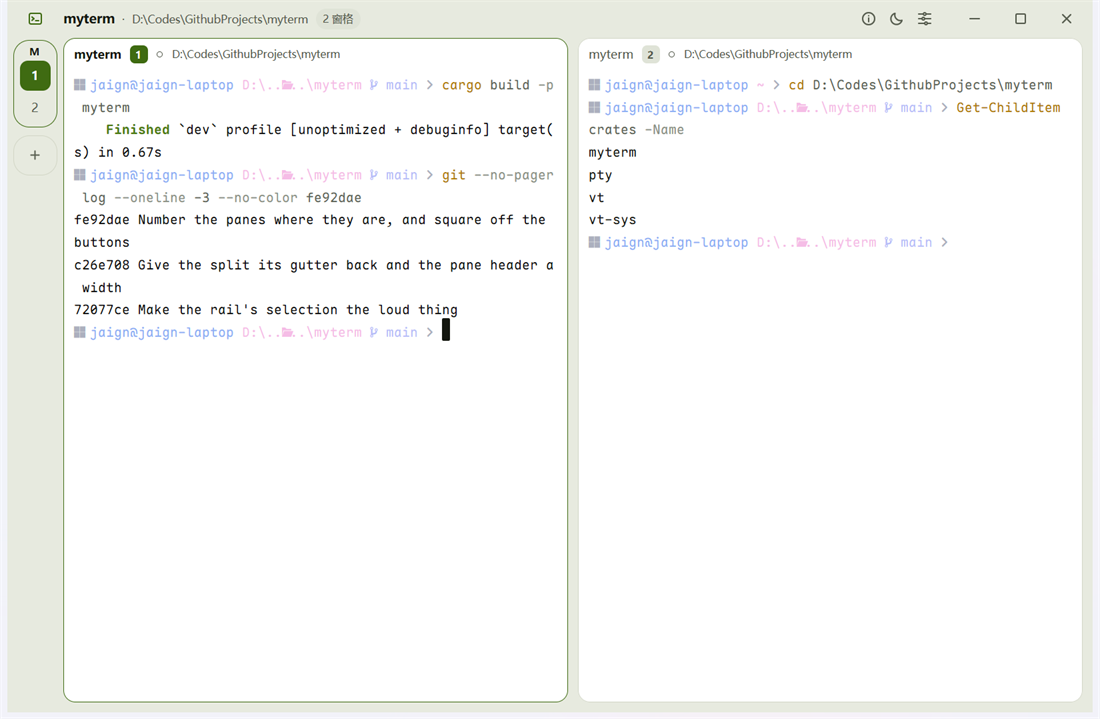
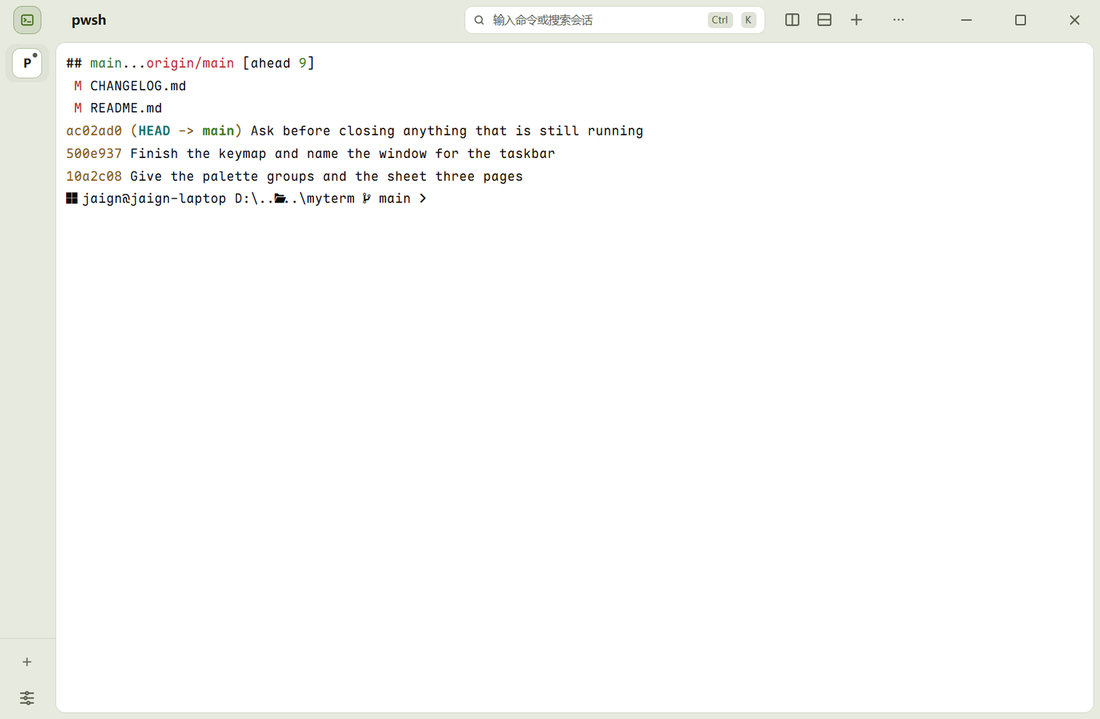
Write the new interface back into the docs
design.md described a window that no longer exists: capsules in the rail, a
focus veil, ten pixels of gutter on four sides. The sections on the workspace
column, focus, layout and colour now describe what the code does, including the
contrast numbers and the accent budget of four.

The proposal in ui-redesign.md is marked implemented, with the outstanding rows
of its own table updated rather than left to claim otherwise, and the readme
carries the new keys, the settings pages and fresh screenshots at the same
1100×719 the old ones used.

Changed region(s): [[0.0, 0.0, 1.0, 1.0]]

diff --git a/README.md b/README.md
@@ -9,18 +9,18 @@
 
 <picture>
   <source media="(prefers-color-scheme: dark)" srcset="docs/screenshot-dark.png">
-  <img src="docs/screenshot.png" alt="myterm 的窗口：左侧窄条是标签与窗格序号，右侧两张终端卡片各带窗格头" width="880">
+  <img src="docs/screenshot.png" alt="myterm 的窗口：左侧窄条是工作区与它的窗格，右侧终端卡片上方是 44px 顶栏" width="880">
 </picture>
 
-终端渲染、键盘与中文输入、多标签、分屏与拖动比例、选区与复制、滚轮回滚、Kitty 图形协议、深浅主题、自动更新与安装都已人工验证。设计取舍写在 [docs/design.md](docs/design.md)。
+终端渲染、键盘与中文输入、多工作区、分屏与拖动比例、选区与复制、滚轮回滚、Kitty 图形协议、深浅主题、自动更新与安装都已人工验证。设计取舍写在 [docs/design.md](docs/design.md)。
 
 ## 三个决定
 
-**标签在侧边，不在顶部。** 顶部那一行留给窗口本身。左侧一栏就是标签栏：默认是最窄的窄条，一个标签一个胶囊，当前标签用强调色描边；展开后变成一行一个标签、多窗格的标签带缩进的窗格行。宽度只由你决定，分屏不会把它撑开。
+**工作区在侧边，不在顶部。** 顶部那一行留给窗口本身：工作区的名字、它所在的目录、一条通往全部功能的命令入口，然后是分屏与窗口按钮。左侧一栏是工作区栏，默认是最窄的窄条——一个工作区一个方块，当前的那个整块带底色；展开后一行一个工作区，名字下面是 shell 报上来的目录。宽度只由你决定，分屏不会把它撑开。
 
-**窗格是卡片，外壳是底。** 卡片之间留 10px 的外壳色，那 10px 就是分隔线本身——不额外画线。指针停在间隙上会浮出一小段强调色手柄，说明这里能拖。
+**窗格是卡片，外壳是底。** 卡片之间留 8px 的外壳色，那 8px 就是分隔线本身——不额外画线。指针停在间隙上会浮出一小段强调色手柄，说明这里能拖。
 
-**强调色只说明一件事：这里是当前。** 青柠色用在应用标记、当前标签的描边、键盘所在的窗格、可拖动的间隙，以及有输出或待更新的状态上。它不拿来装饰——所以看到它，它总在回答「现在在哪」或「有东西在动」。
+**强调色只说明一件事：这里是当前。** 它用在应用标记、当前工作区的方块、键盘所在的窗格描边、可拖动的间隙，以及有输出的状态上；设置里可以从青柠换到琥珀、天蓝或紫。它不拿来装饰——所以看到它，它总在回答「现在在哪」或者「有东西在动」。
 
 ## 安装
 
@@ -36,18 +36,24 @@
 
 | 按键 | 作用 |
 | --- | --- |
-| `Ctrl+Shift+T` | 新建标签 |
-| `Ctrl+Shift+Q` | 关闭标签 |
+| `Ctrl+K` | 命令面板（命令、工作区、主题） |
+| `Ctrl+Shift+T` | 新建工作区 |
+| `Ctrl+Shift+Q` | 关闭工作区 |
+| `Ctrl+Shift+R` | 恢复刚关掉的工作区（6 秒内） |
 | `Ctrl+Shift+W` | 关闭窗格 |
-| `Ctrl+Shift+D` | 左右分屏 |
-| `Ctrl+Shift+E` | 上下分屏 |
-| `Ctrl+Shift+Z` | 缩放当前窗格 |
+| `Ctrl+Shift+D` | 向右分屏 |
+| `Ctrl+Shift+E` | 向下分屏 |
+| `Ctrl+Shift+Z` | 缩放当前窗格（`Esc` 退出） |
 | `Ctrl+Shift+B` | 收起 / 展开侧栏 |
+| `Ctrl+Shift+F` | 查找（`F3` / `Shift+F3` 上下条） |
 | `Ctrl+Shift+C` / `Ctrl+Shift+V` | 复制选区 / 粘贴 |
 | `Ctrl+Shift+L` | 切换深浅主题 |
+| `Ctrl+,` | 设置 |
+| `Ctrl+Tab` / `Ctrl+1..9` | 切换 / 直达工作区 |
 | `Alt+方向键` | 切换窗格 |
 
 复制粘贴用带 `Shift` 的组合，因为终端必须把 `Ctrl+C`（中断前台程序）和 `Ctrl+V`（readline 的引号插入）原样交给 shell。
+`Ctrl+F` 同理留给 shell 的前移一个字符，查找因此也是 `Ctrl+Shift+F`。退出是 `Alt+F4` 或应用菜单里的「退出」。
 
 ## 功能
 
@@ -64,16 +70,30 @@
 
 ### 窗口与侧栏
 
-- **标题栏**：自绘。左边是应用标记（点一下收起 / 展开侧栏），中间空白处拖动窗口，右侧是分屏按钮、信息、主题、更新徽章和窗口按钮。
-- **侧栏**：窗口里唯一的标签入口。窄条里一个标签是一个胶囊——未激活的是普通描边加淡底，当前标签换成强调色描边；多窗格的标签上方是小标签字、下方是窗格块，块里放名字首字（重名时用序号），状态不画点而用块底色表示（输出中 / 已退出），选中是白底。展开后一行一个标签，多窗格成组，每行带状态点、名字和状态。
-- **标签操作**：栏头的加号新建，当前标签行上的叉关闭；标签全关掉时，列表里有一行「新建终端」。
+- **布局**：两列。左侧工作区栏贯穿整个高度，应用标记就在它要打开的角落里；右侧是 44px 顶栏
+  （工作区名 · 目录 · 命令入口 · 分屏与新建 · 应用菜单 · 窗口按钮）加上面的工作区。
+- **命令入口**：顶栏中间那条 `Ctrl+K` 的输入框是鼠标用户的入口——命令、工作区、主题都在里面，
+  每行印着自己的键位。
+- **工作区栏**：窗口里唯一的工作区入口。展开时一行一个工作区，组头带字形、名字、窗格数与关闭叉；
+  单个窗格的工作区就是那一行，名字下面是 shell 报上来的目录。窄条时一个工作区一个方块，当前
+  工作区整块带底色，每个窗格一枚块，右上角是状态点。
+- **关闭**：窗格、工作区、窗口三种粒度走同一个确认卡，写明会结束几个终端；关掉的工作区在 6 秒内
+  可以撤销，撤销窗口过期当它一起结束。
 - **主题**：跟随系统深浅色启动，`Ctrl+Shift+L` 或标题栏按钮切换。终端前景、背景、光标与 ANSI 16 色一起换，不只是外壳——这些值也注入解析器，所以查询颜色的程序得到和屏幕一致的结果。
+
+### 设置
+
+- **三页**：外观（主题、密度、强调色）、终端（默认 shell、字号）、快捷键。
+- **立即生效**：每一项改完当场生效并写盘，遮罩只有 12%，改字号时终端就在旁边跟着变。
+- **配置文件**：`%LOCALAPPDATA%\myterm\config.txt`，平铺的 `key = value`；坏行、未知键、越界值
+  都会被忽略，文件损坏只会退回默认值而不会让程序打不开。
 
 ### 分屏
 
 - 左右 `Ctrl+Shift+D`、上下 `Ctrl+Shift+E`、关闭 `Ctrl+Shift+W`，`Alt+方向键` 按几何位置切换。
 - 分成多个窗格后，每张卡片顶部多一行窗格头（状态点、名字，悬停时出现分屏 / 缩放 / 关闭）。单窗格时不显示——侧栏已经说了它是谁。
-- **焦点不画边框**：没有键盘的窗格整体变淡。切换焦点时没有任何像素位移。
+- **焦点是描边**：拿到键盘的卡片把那条细线换成强调色，未聚焦的卡片保持中性——输出本身不蒙雾，
+  切换焦点也不移动任何一个像素。
 - 缩放是临时的：`zoomed` 只影响渲染，布局树不动，放开时每个窗格回到原处。
 
 ## 构建
@@ -111,6 +131,7 @@ crates/
 
 - **系统磨砂材质透不出来**：Windows 后端通过 DirectComposition 呈现不透明表面，DWM 的 Mica / Acrylic 被它盖住。标题栏改用比网格更浅的外壳色来分层。
 - **只有 Windows。**
-- **查找未接入**：`vt` 层已提供搜索接口，界面还没做。
+- **查找只覆盖当前屏幕**：终端库只把视口内的行交给渲染层，没有可遍历的回滚缓冲。
+- **侧栏的目录来自 shell 的 OSC 标题**：shell 不报路径时那一行留空，没有进程目录查询。
 - **自动更新只替换可执行文件**，不处理同目录的其他文件；目前也只有这一个文件。
 - **字体依赖本机**安装 Maple Mono NF CN。

diff --git a/CHANGELOG.md b/CHANGELOG.md
@@ -5,6 +5,60 @@
 格式参照 [Keep a Changelog](https://keepachangelog.com/zh-CN/1.1.0/)，
 版本号遵循 [语义化版本](https://semver.org/lang/zh-CN/)。
 
+## [0.5.0] - 2026-11-16
+
+这一版把界面按 `docs/ui-prototype.html` 重画了一遍：窗口是两列而不是两行，侧栏是唯一的工作区入口，
+设置、关于、命令面板按原型的形状重做。行为上的变化集中在键位和关闭语义。
+
+### 界面
+
+- 窗口拆成两列：左侧的工作区栏贯穿整个高度，应用标记落在它要打开的角落；右侧是 44px 顶栏
+  （工作区名 · 目录 · 命令入口 · 分屏与新建 · 应用菜单 · 窗口按钮）加工作区。
+- 顶栏中间是一条命令入口（`Ctrl+K`）：这是鼠标用户唯一找得到的「全部功能」，不再需要背键位。
+- 设置、关于、检查更新、主题从顶栏图标搬进 `⋯` 菜单。这三项都不是高频动作，而它们占的是顶栏里
+  最贵的位置。
+- 状态条改成条件出现：只在缩放时（`已缩放 · Esc 退出`）出现，静止时是 0 像素。
+- 侧栏行高 42：上面是名字，下面是 shell 报上来的目录。工作区组头带布局字形、名字、窗格数与关闭叉。
+- 窄条重做：一个工作区一个方块，当前工作区整块带底色；多于一个窗格时才有组头；每个块右上角一枚
+  状态点，字色同时按状态取色。
+- 窗格头：状态在最前（实心=输出中、空心=空闲、方块=已退出），名字后跟序号与目录；动作在持有键盘
+  的窗格上常显，其余窗格悬停出现。
+- 查找条搬进窗格内部，占自己的一行，不再浮在整列之上；`1/5` 计数，`↑ ↓` 与 `F3 / Shift+F3` 都走。
+- 命令面板重做：580px、分组（命令 / 工作区 / 外观）、每行一个字形与键位；工作区名也能搜。
+- 设置改成 436px 的抽屉，三页：外观（主题、密度、强调色）、终端（默认 shell、字号、当前 shell）、
+  快捷键。遮罩降到 12%，因为每一项都立即生效，改字号时终端就在旁边变。
+- 关于卡片改成居中的面板：版本、解析库、界面框架、默认 shell、安装状态、更新，加三个动作
+  （检查更新 / 安装或卸载 / 好）。
+- 全部工作区关掉后是一句「没有打开的会话」和一个新建按钮，不是一块黑。
+- 窗口标题改成 `工作区 · 目录`，任务栏、Alt+Tab 和缩略图读的都是它。
+
+### 设置
+
+- 新增密度（紧凑 34 / 标准 42 / 舒适 50，紧凑时侧栏不显示目录行）。
+- 新增强调色四选一（青柠 / 琥珀 / 天蓝 / 紫），只改强调色，不动明暗。
+- 新增默认 shell（自动 / pwsh / powershell / cmd / wsl），选中的程序不存在时回落到自动。
+- 配置写入 `%LOCALAPPDATA%\myterm\config.txt`，新增 `density` / `accent` / `shell` 三个键；
+  未知值与损坏的行照旧忽略。
+
+### 键位
+
+- `Ctrl+K` 打开命令面板（原 `Ctrl+Shift+P` 取消）。
+- `Ctrl+Shift+Q` 改为关闭工作区。退出是 `Alt+F4` 或应用菜单——一个手滑就把整个窗口连同正在跑的
+  程序一起关掉，代价和收益不成比例。
+- `Ctrl+Shift+R` 恢复刚关掉的工作区（撤销窗口 6 秒内有效）。
+- `F3` / `Shift+F3` 在查找中上下条；`Esc` 先退出缩放。
+
+### 关闭语义
+
+- 三种粒度一个对话框：窗格、工作区、窗口，各自写明会结束多少个终端。
+- 关掉的工作区会在撤销窗口期内保留，里面的 shell 仍在运行；6 秒后随窗口一起结束。
+
+### 已知限制
+
+- 侧栏只显示 shell 通过 OSC 标题报上来的目录；报的不是路径时（例如 PowerShell 默认报 exe 路径）
+  这一行留空，没有进程目录查询。
+- 分支胶囊没有做：终端库没有暴露 git 状态，这里也不去猜。
+
 ## [0.4.0] - 2026-11-13
 
 ### 界面
